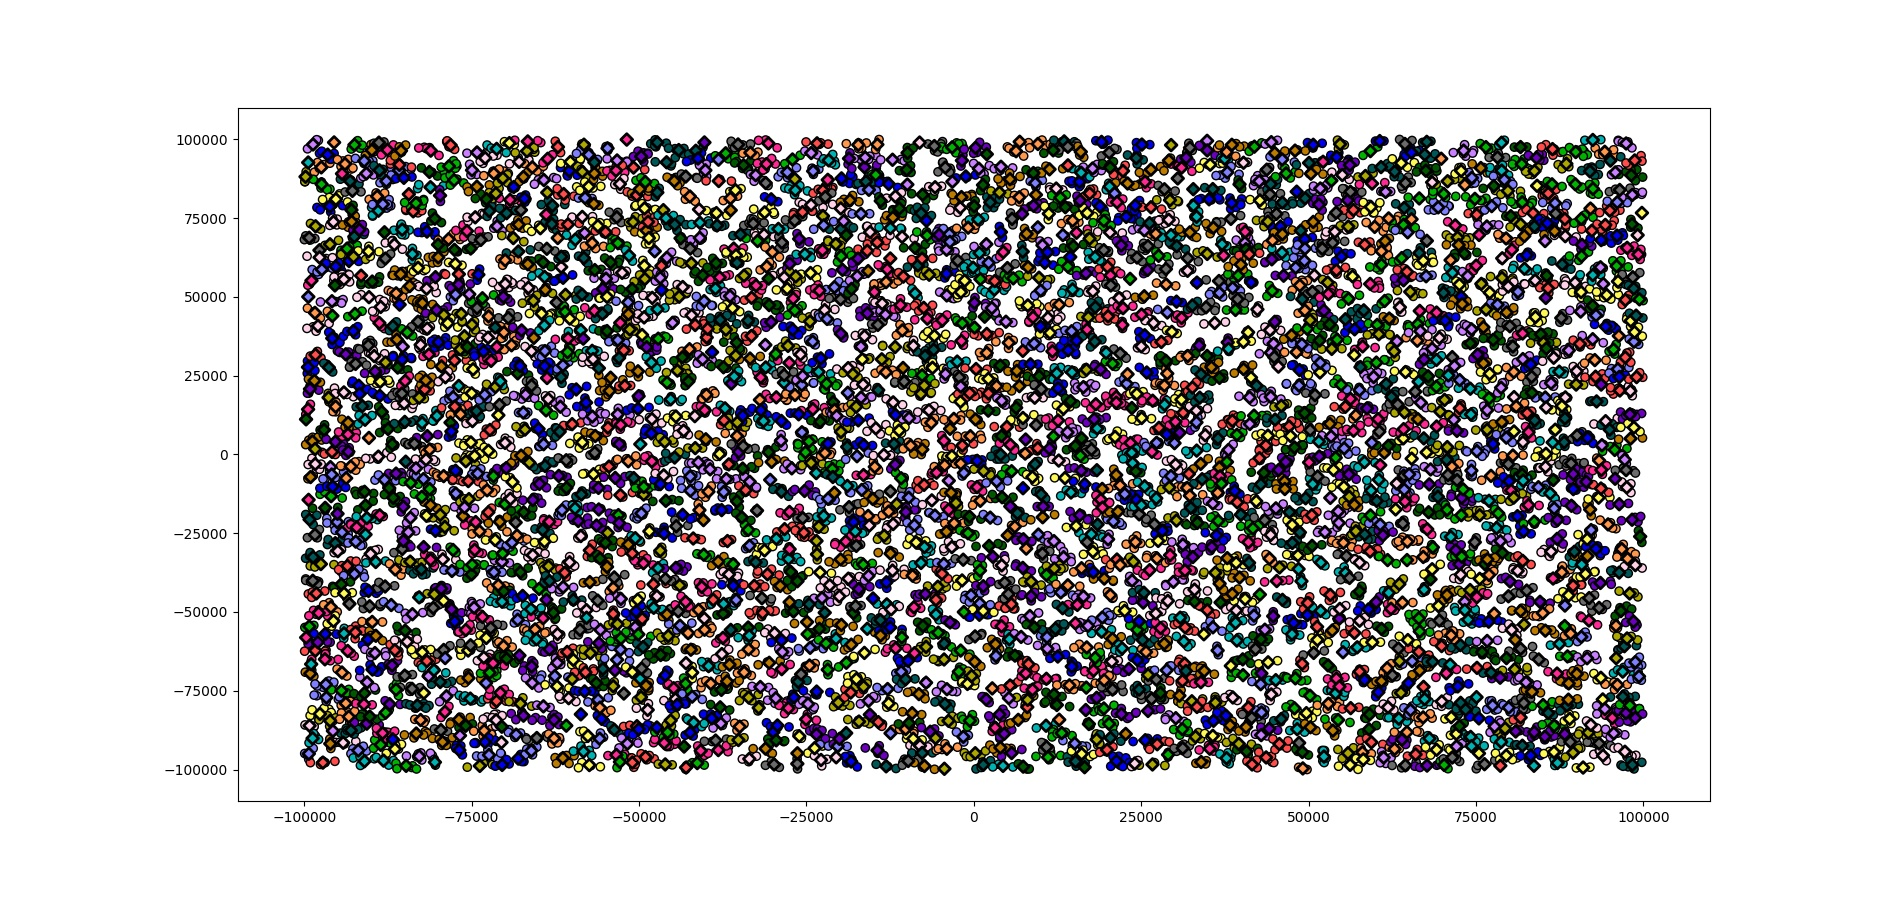
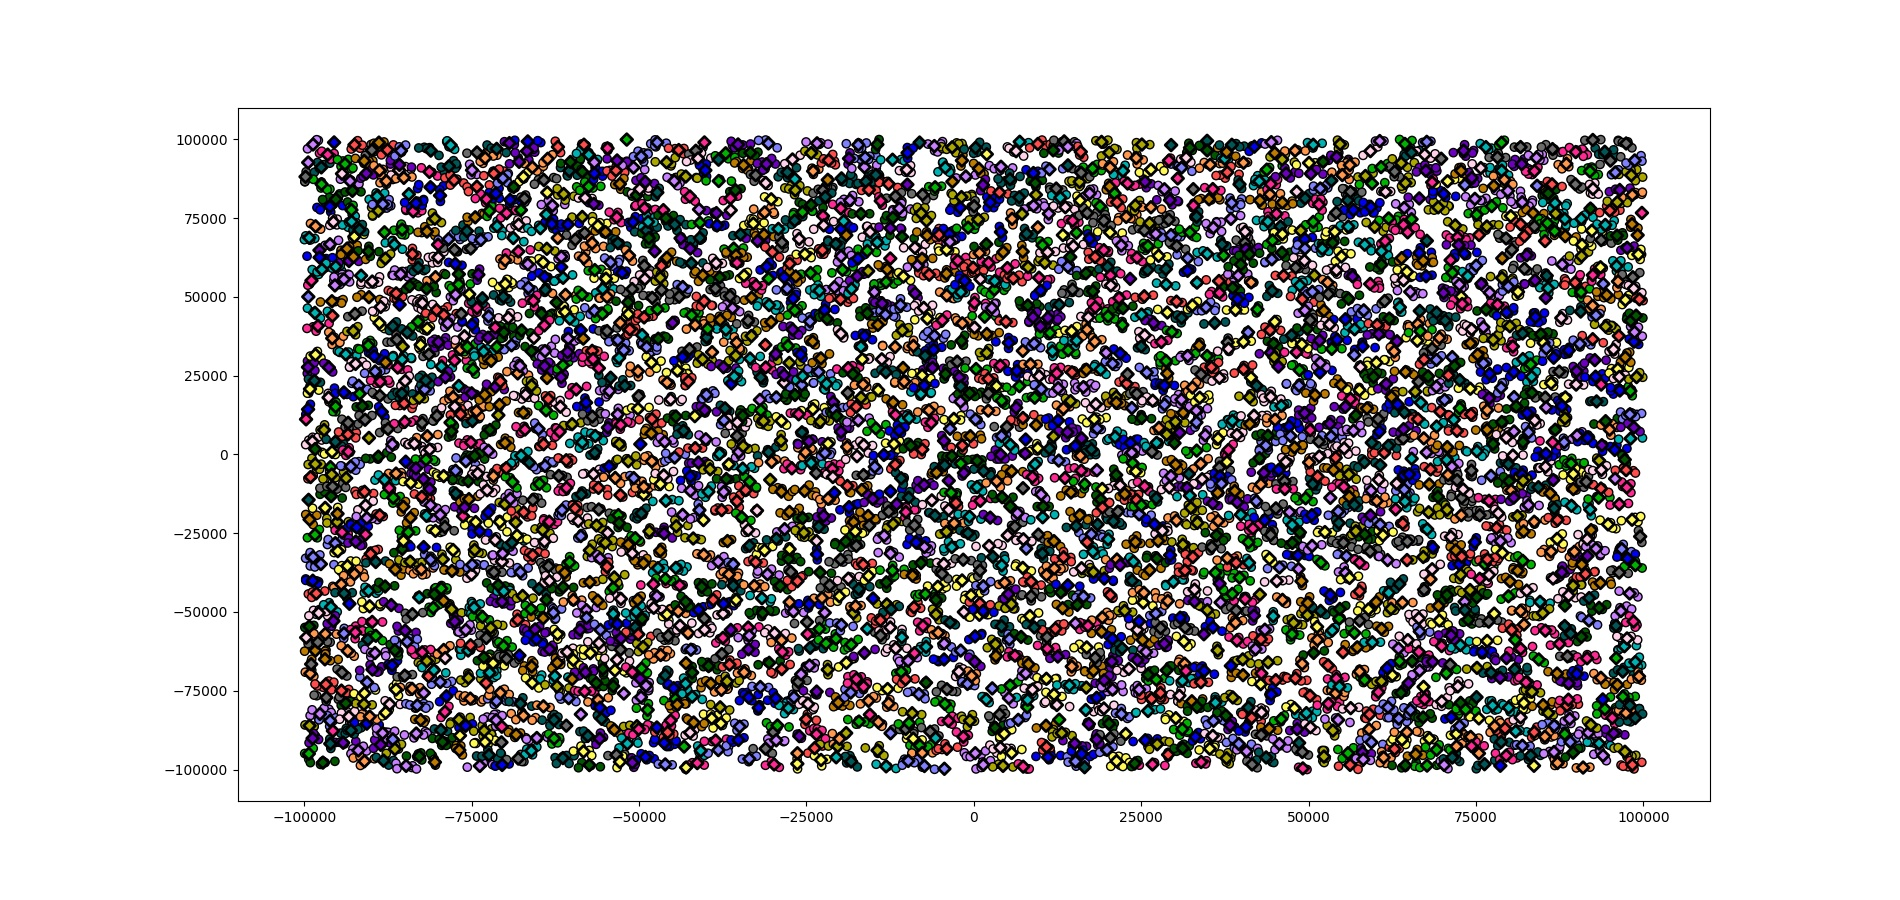
ECM_TEST maybe bug when drawing
The colors should be better dispersed now

Changed region(s): [[0.1553, 0.1556, 0.8695, 0.8711]]

diff --git a/ecm_test.py b/ecm_test.py
@@ -84,9 +84,9 @@ def plot(ecm: ECM, do_radius: bool = False) -> None:
     _Y_positions = []
     _colors_positions = []
 
-    for cluster in sorted_by_x:
+    for i, cluster in enumerate(sorted_by_x):
 
-        color = colors[cluster.index % len(colors)]
+        color = colors[i % len(colors)]
 
         for instance in cluster.instances:
             _X.append(instance[0])
